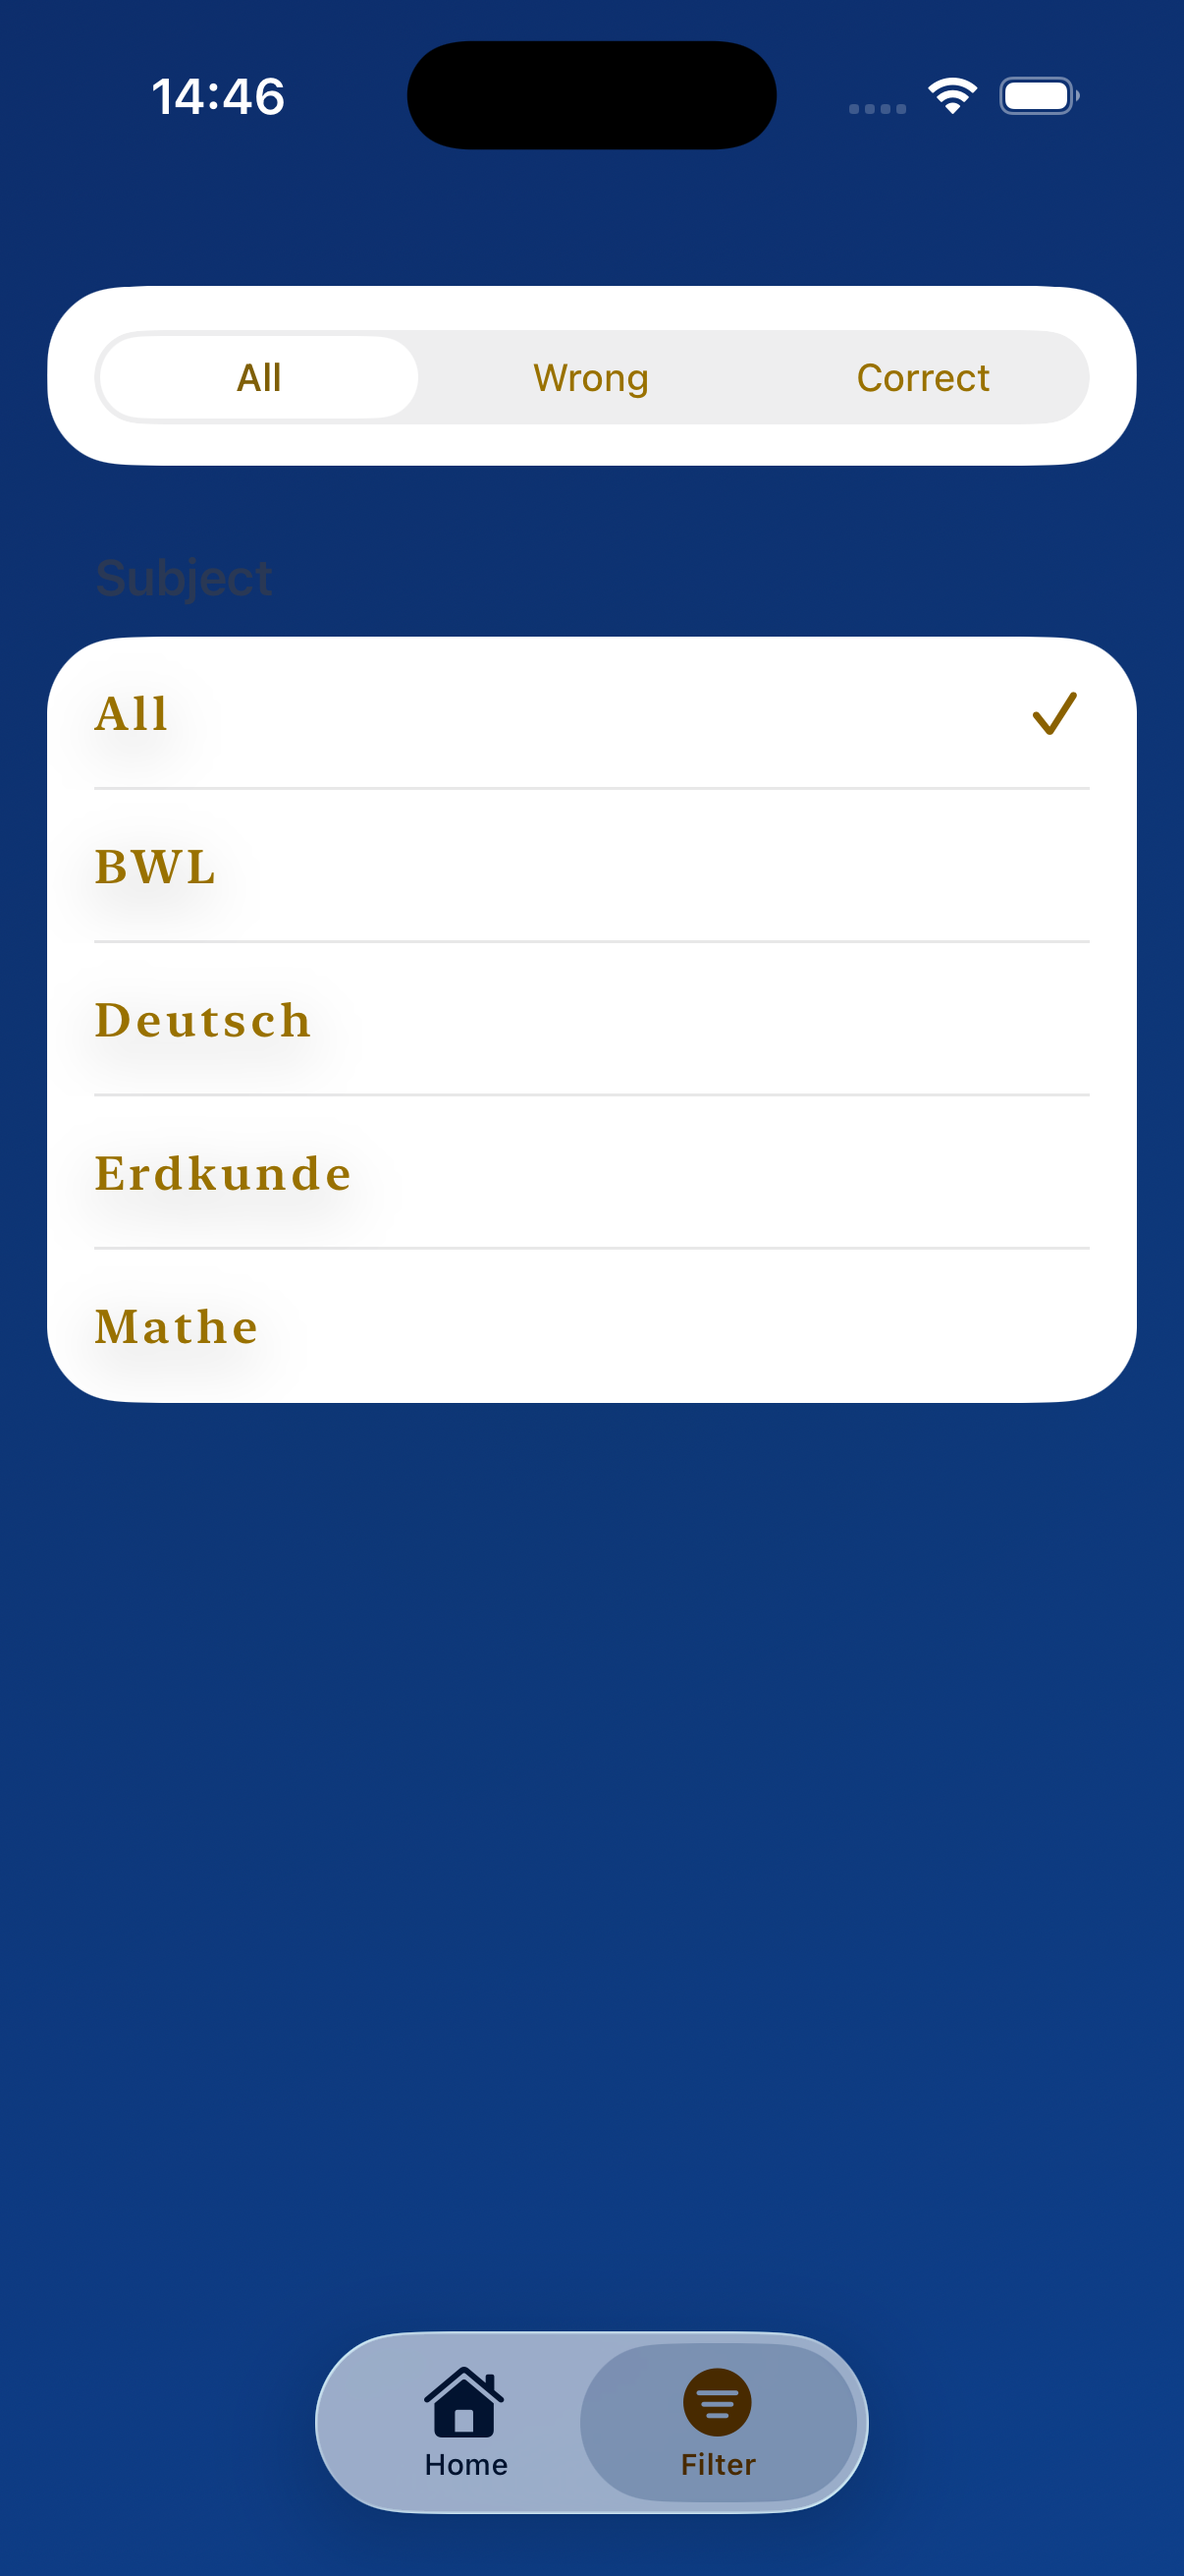
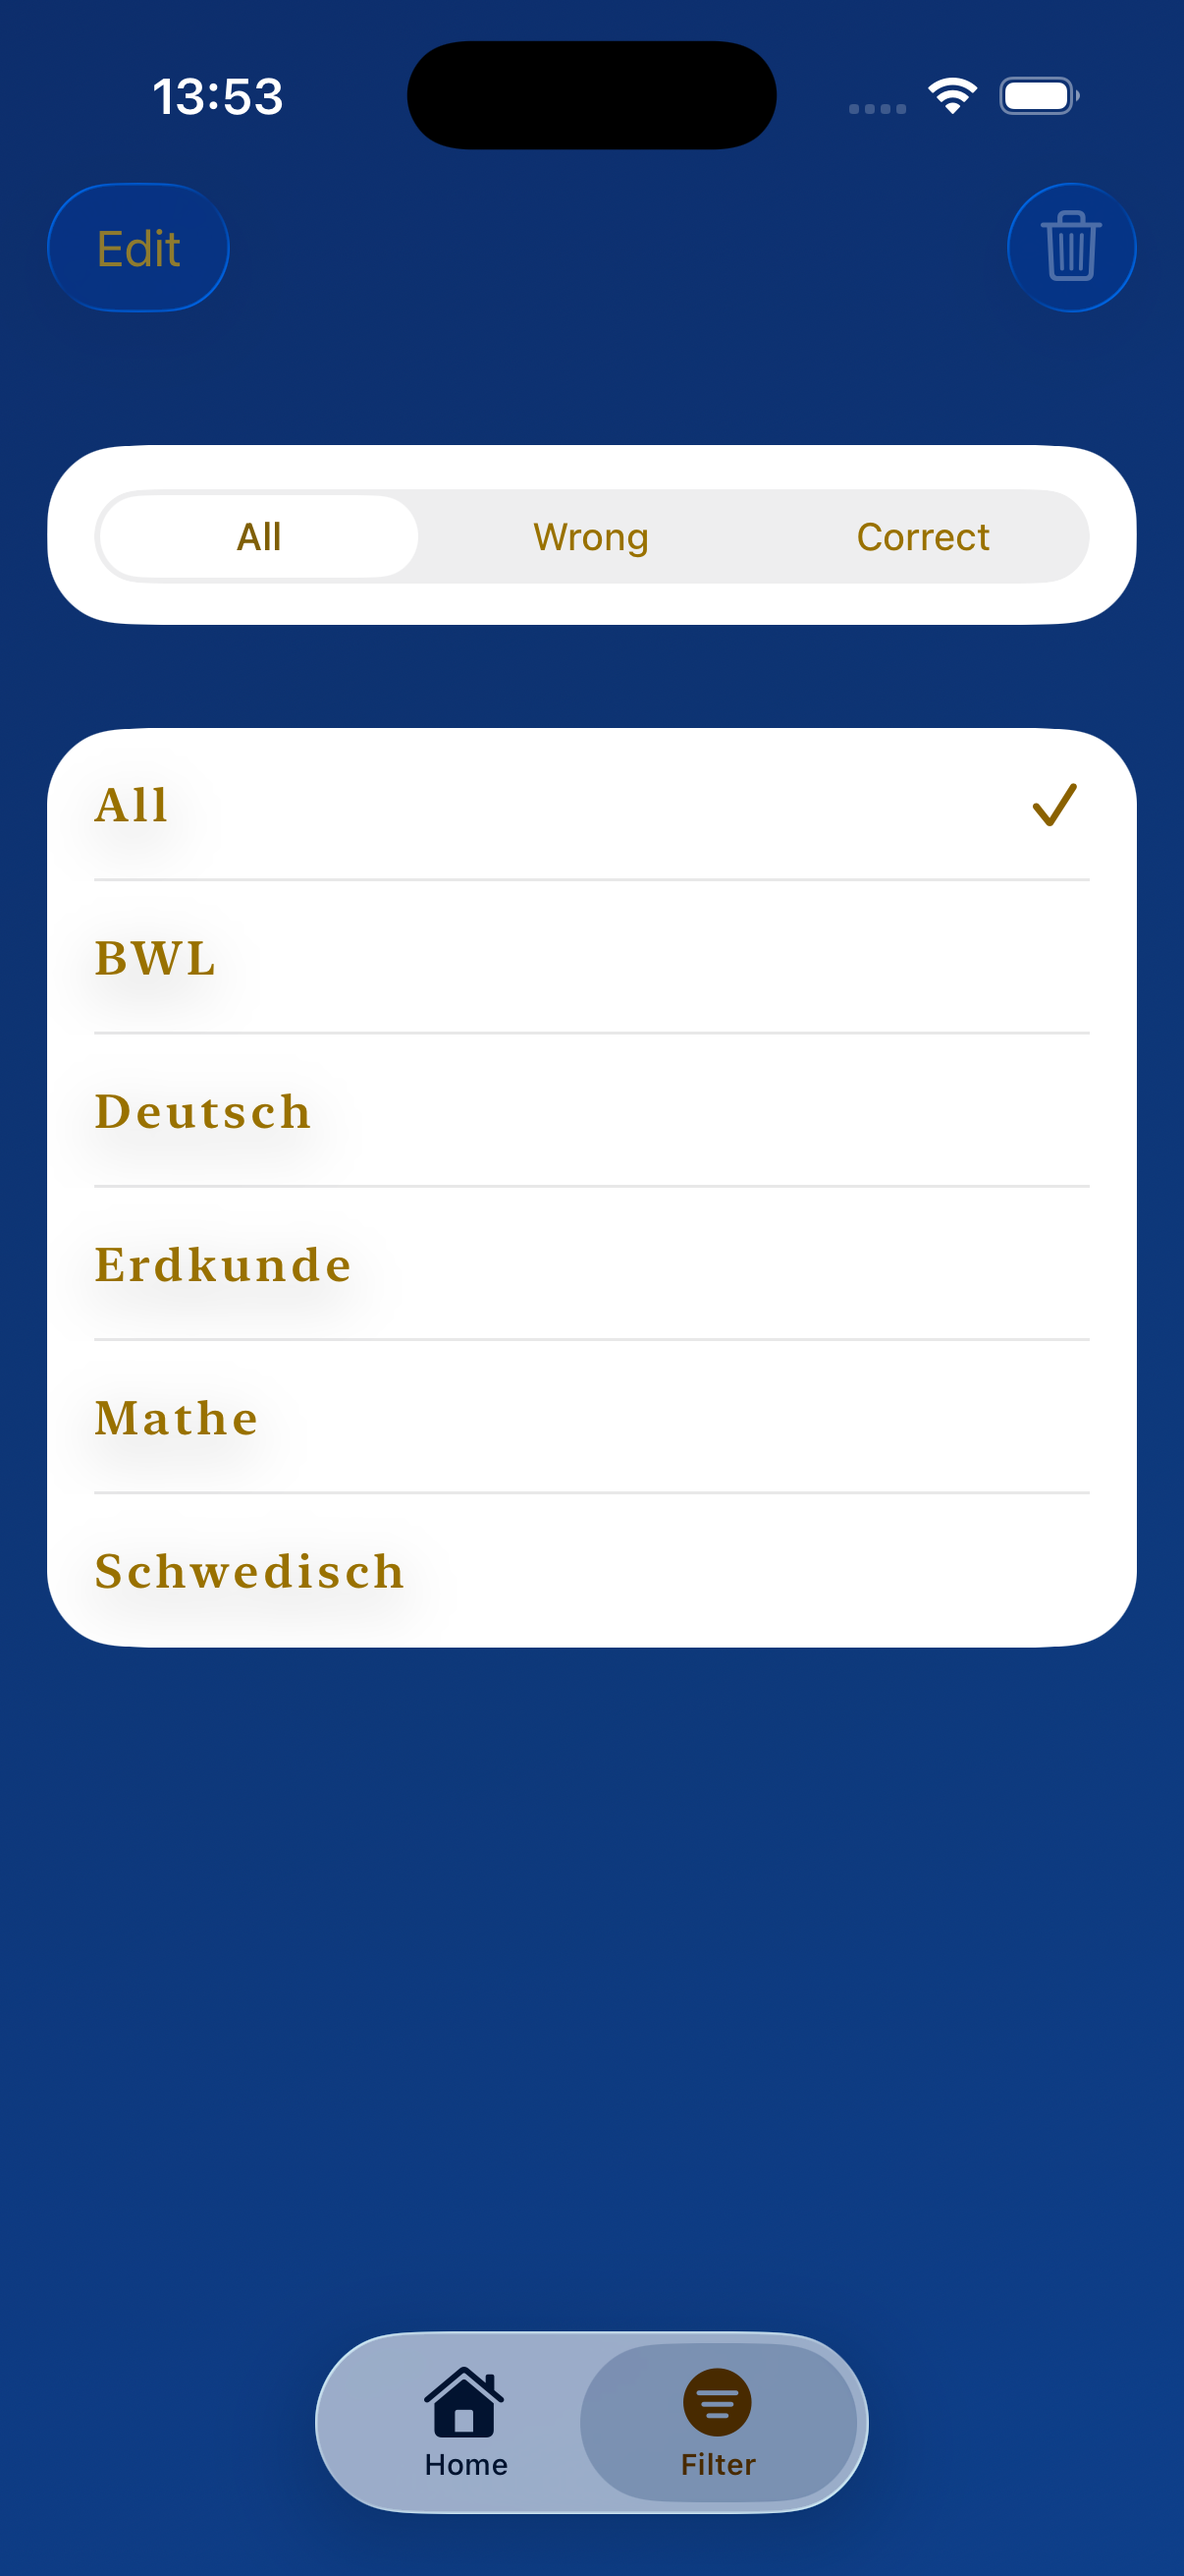
Updated Readme (#10)

Changed region(s): [[0.0307, 0.0618, 0.9818, 0.6487], [0.1534, 0.0309, 0.2454, 0.0618]]

diff --git a/README.md b/README.md
@@ -1,3 +1,5 @@
+<p align="center"><img src="Images/elorize_icon.png" alt="Elorize Icon" width="96" /></p>
+
 # Elorize
 
 Elegant, minimalist flashcards with a Parisian-inspired design.
@@ -9,6 +11,8 @@ Elegant, minimalist flashcards with a Parisian-inspired design.
   <img src="Images/home.png" alt="Home" width="240" style="margin-right:12px;" />
   <img src="Images/text_controls.png" alt="Home" width="240"   style="margin-right:12px;" />
   <img src="Images/filter.png" alt="Home" width="240" style="margin-right:12px;" />
+  <img src="Images/filter_editmode.png" alt="Home" width="240" style="margin-right:12px;" />
+  <img src="Images/filter_editmode_delete.png" alt="Home" width="240" style="margin-right:12px;" />
   <img src="Images/add_card.png" alt="Home" width="240" style="margin-right:12px;" />
   <img src="Images/add_subject.png" alt="Home" width="240" style="margin-right:12px;" />
   </p>
@@ -48,4 +52,5 @@ Elegant, minimalist flashcards with a Parisian-inspired design.
 git clone https://github.com/herbstsonne/Elorize.git
 cd Elorize
 open Elorize.xcodeproj
+
 
